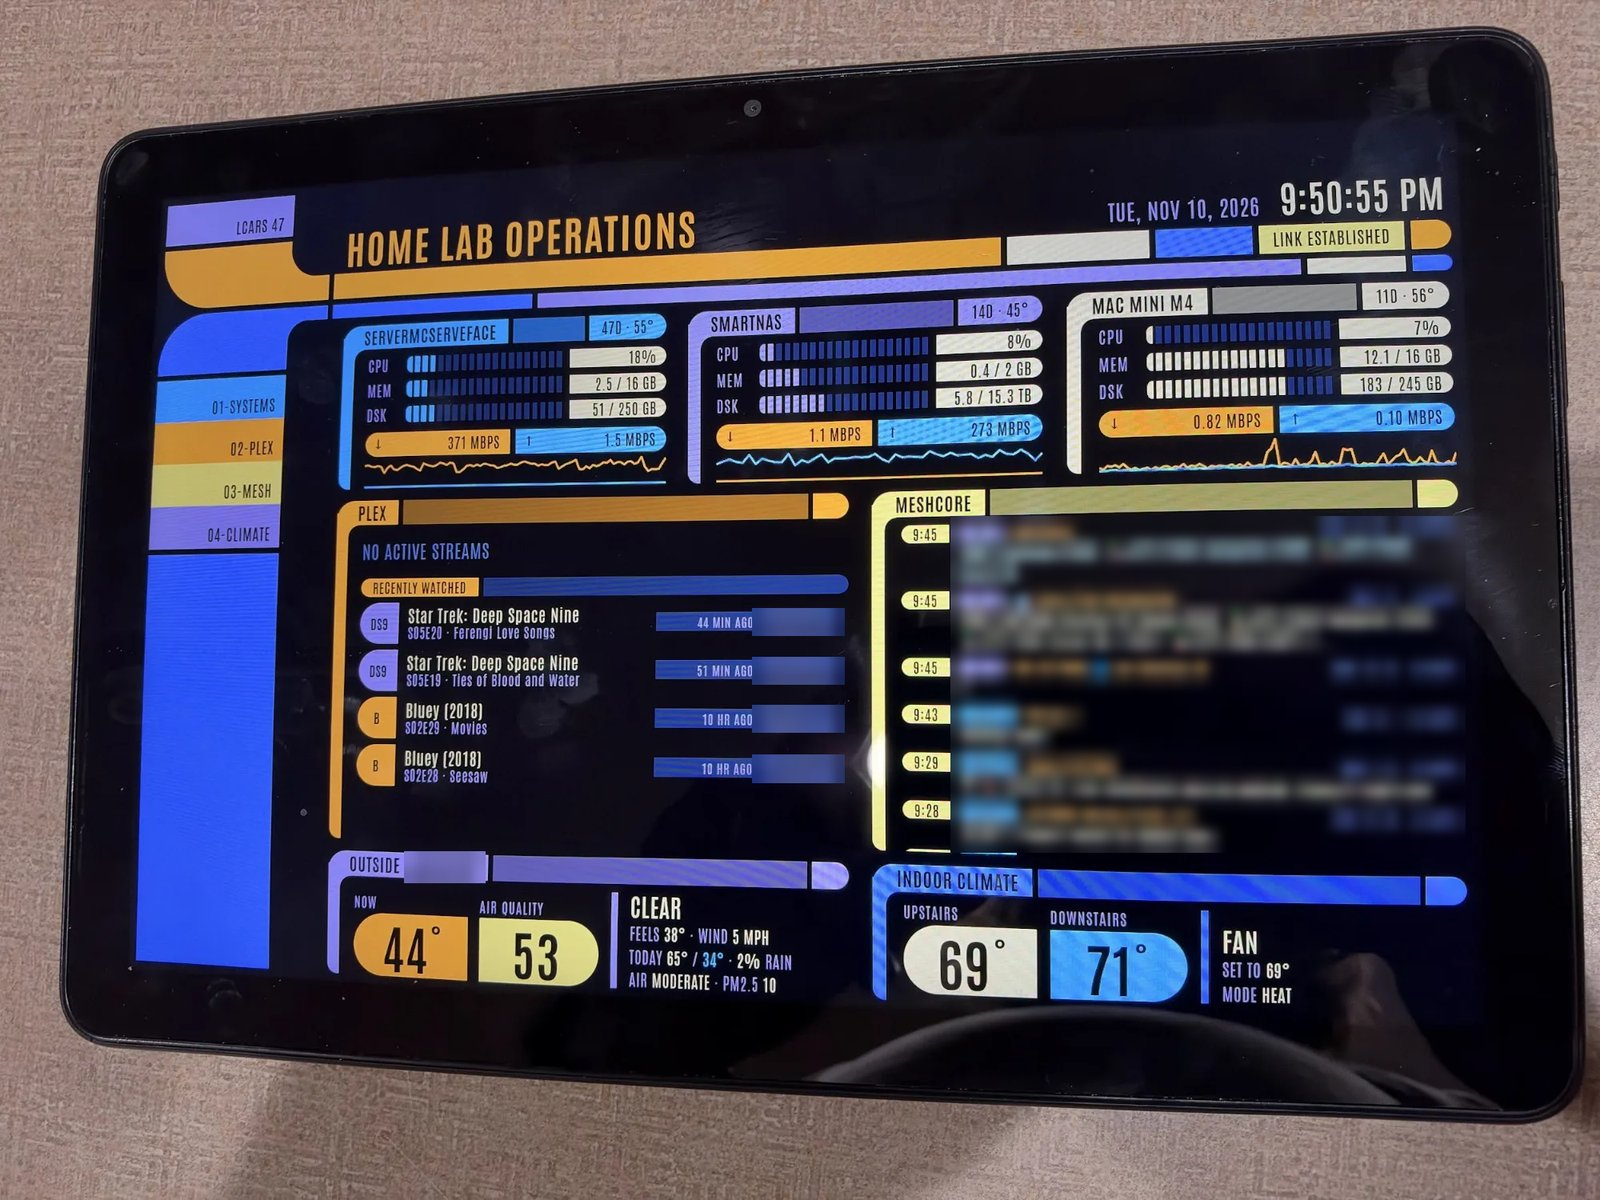
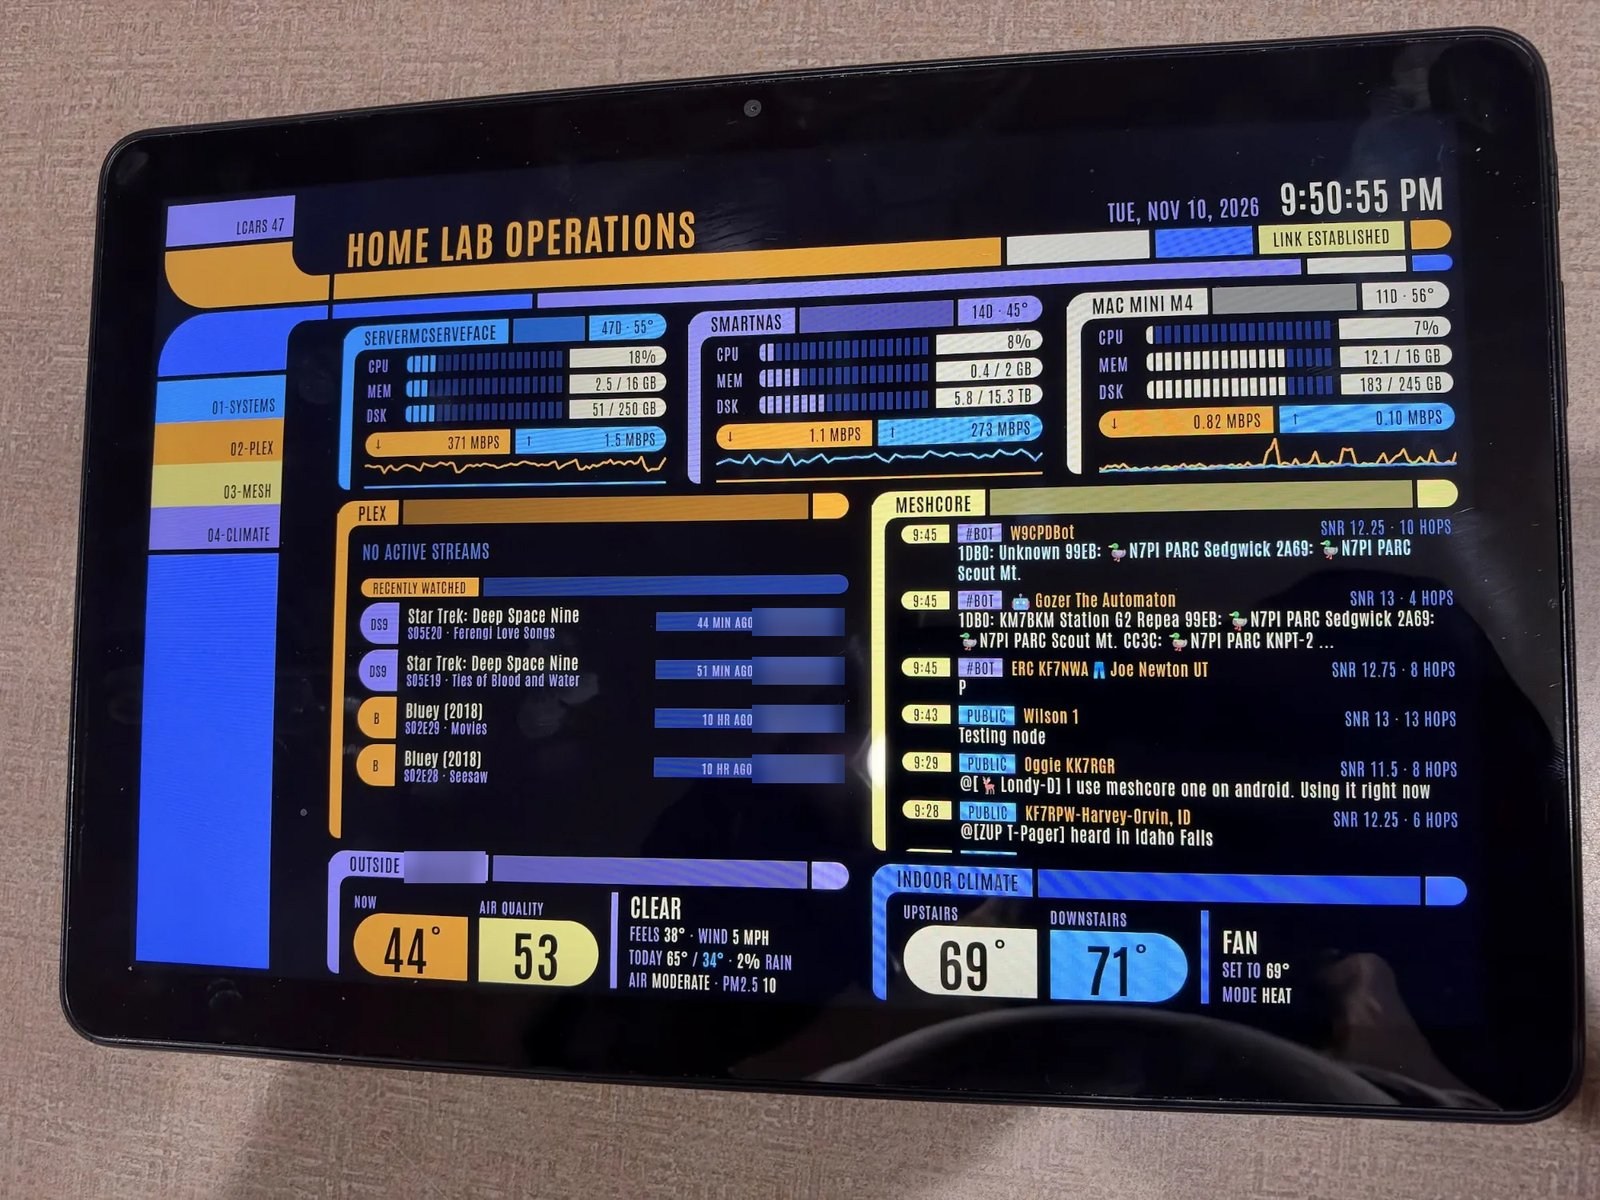
Unblur the MeshCore panel in the overview photo

Changed region(s): [[0.5938, 0.4317, 0.9062, 0.7092]]

diff --git a/README.md b/README.md
@@ -8,7 +8,7 @@ A home lab status board styled after the LCARS computer screens from *Star Trek*
 
 ![Tapped into detail views: top apps per machine, a Plex stream in progress and the solar repeater panel](docs/tablet-detail.jpg)
 
-*(Names, places and mesh messages are blurred in the photos.)*
+*(Usernames and places are blurred in the photos.)*
 
 ## What it's built for
 
